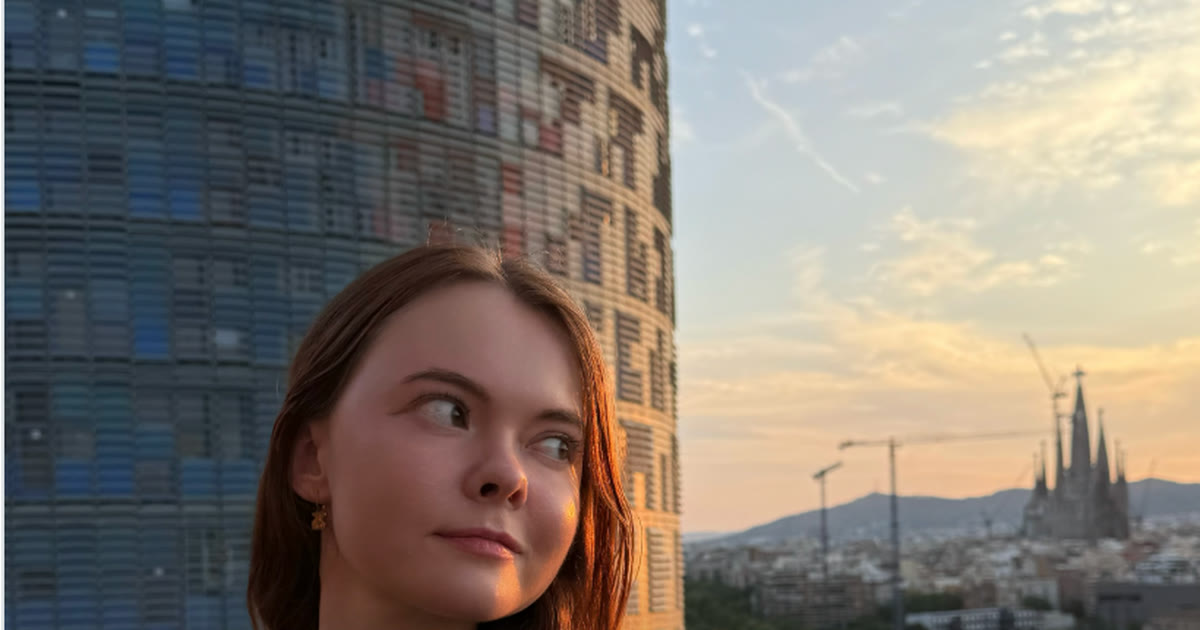
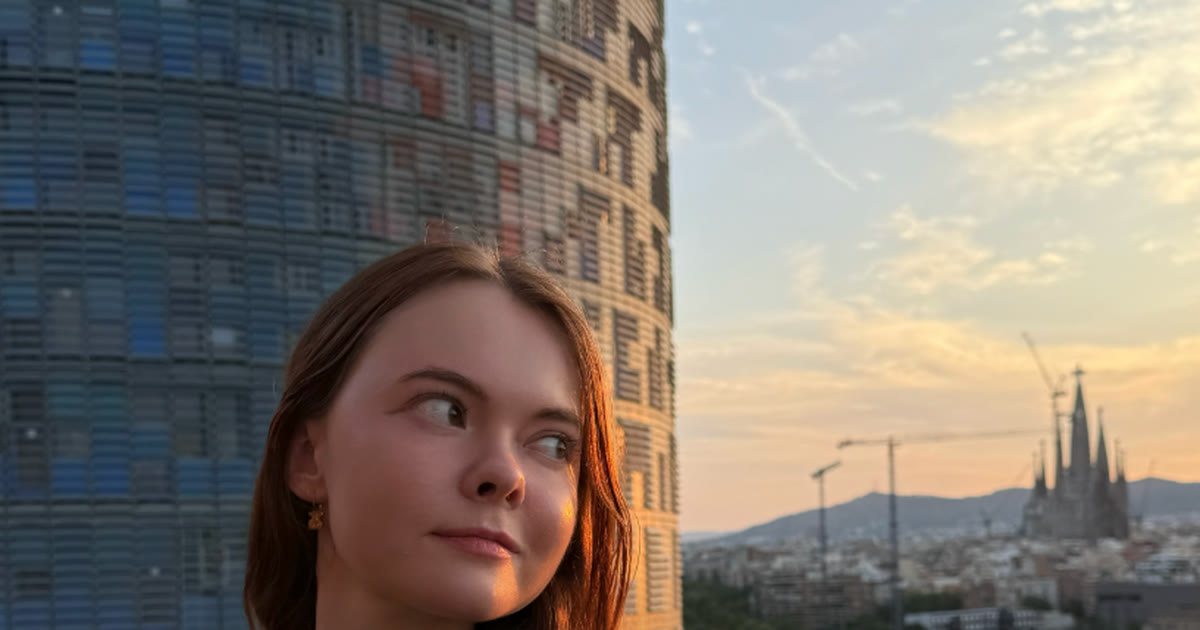
fix: review fixes (first screen, copy, sources, clean photo crops, back links)

diff --git a/index.html b/index.html
@@ -23,7 +23,7 @@
 
   <header class="profile">
     <div class="wrap">
-      <img class="profile__photo" src="/img/uliana-portrait.webp" width="480" height="580" alt="Ульяна Вьен">
+      <img class="profile__photo" src="/img/uliana-avatar.webp" width="350" height="350" alt="Ульяна Вьен">
       <h1 class="profile__name">Ульяна Вьен</h1>
       <p class="profile__line">Языки, UGC и жизнь в Барселоне</p>
       <p class="profile__bio">Говорю на шести языках, преподаю английский и испанский и снимаю <span class="nowrap">UGC-видео</span> для брендов Европы.</p>
@@ -38,20 +38,19 @@
     </div>
   </header>
 
-  <nav class="doors" aria-label="Чем могу помочь">
+  <nav class="doors" id="doors" aria-label="Чем могу помочь">
     <div class="wrap">
-      <p class="doors__title">С чем тебе помочь?</p>
       <ul class="doors__list">
         <li><a class="door door--main" href="#gaid">
-          <span class="door__text"><span class="door__name">Гайд: учу язык сам с нейросетями</span><span class="door__sub">Новый продукт, старт продаж в октябре</span></span>
+          <span class="door__text"><span class="door__name">Гайд: учим язык с нейросетями</span><span class="door__sub">Новый продукт, старт продаж в октябре</span></span>
           <svg class="door__arrow" viewBox="0 0 24 24" aria-hidden="true"><path d="M12 5v13M6.5 13 12 18.5 17.5 13"/></svg>
         </a></li>
         <li><a class="door" href="#ugc">
-          <span class="door__text"><span class="door__name">Консультация по UGC</span><span class="door__sub">Как начать работать с брендами в Европе</span></span>
+          <span class="door__text"><span class="door__name">Консультация по UGC</span><span class="door__sub">Как работать с брендами в Европе</span></span>
           <svg class="door__arrow" viewBox="0 0 24 24" aria-hidden="true"><path d="M12 5v13M6.5 13 12 18.5 17.5 13"/></svg>
         </a></li>
         <li><a class="door" href="#uroki">
-          <span class="door__text"><span class="door__name">Занятия английским и испанским</span><span class="door__sub">С преподавателем-полиглотом</span></span>
+          <span class="door__text"><span class="door__name">Английский и испанский</span><span class="door__sub">Занятия с преподавателем-полиглотом</span></span>
           <svg class="door__arrow" viewBox="0 0 24 24" aria-hidden="true"><path d="M12 5v13M6.5 13 12 18.5 17.5 13"/></svg>
         </a></li>
         <li><a class="door" href="#reklama">
@@ -69,7 +68,7 @@
         <div class="about__text">
           <h2 id="about-title">Привет, я Ульяна</h2>
           <p>В 2022 году мы уехали из России: сначала Армения, потом Турция, а когда собрали документы, перебрались в Испанию. Сейчас живу в Барселоне.</p>
-          <p>У меня две большие страсти: иностранные языки и съёмка видео. Говорю на шести языках, преподаю английский и испанский. Именно в Испании я начала сотрудничать с зарубежными брендами и стала <span class="nowrap">UGC-креатором</span>.</p>
+          <p>У меня две большие страсти: иностранные языки и съёмка видео. В эмиграции я стала думать, как их объединить, и завела второй блог, на иностранную аудиторию. Именно в Европе я начала сотрудничать с зарубежными брендами и стала <span class="nowrap">UGC-креатором</span>.</p>
           <p>В блоге рассказываю, как устроена жизнь в Испании, как учить языки и как зарабатывать на контенте.</p>
           <a class="text-link" href="https://www.instagram.com/ulianavien/" target="_blank" rel="noopener">Больше в Instagram</a>
         </div>
@@ -129,6 +128,7 @@
           <button class="button" type="submit">Сообщить мне о старте</button>
           <p class="privacy">Заявку увидит только Ульяна, контакт нужен, чтобы тебе ответить.</p>
         </form>
+        <a class="back-link" href="#doors">Вернуться к выбору</a>
       </div>
     </section>
 
@@ -176,13 +176,14 @@
           <button class="button" type="submit">Записаться на консультацию</button>
           <p class="privacy">Заявку увидит только Ульяна, контакт нужен, чтобы тебе ответить.</p>
         </form>
+        <a class="back-link" href="#doors">Вернуться к выбору</a>
       </div>
     </section>
 
     <section class="offer offer--tint" id="uroki" aria-labelledby="uroki-title">
       <div class="wrap">
         <h2 id="uroki-title">Занятия английским и испанским</h2>
-        <p class="lead">Говорю на шести языках и преподаю английский и испанский больше восьми лет. Подойдёт, если готовишься к переезду или уже живёшь за границей и язык нужен для жизни.</p>
+        <p class="lead">Английский и испанский с преподавателем, у которого больше восьми лет опыта. Подойдёт, если готовишься к переезду или уже живёшь за границей и язык нужен для жизни.</p>
 
         <form class="order" name="lessons" method="POST" action="/spasibo/" data-netlify="true" netlify-honeypot="company-site" data-success="Заявка у меня. Напишу тебе, подберём время и формат.">
           <input type="hidden" name="form-name" value="lessons">
@@ -218,6 +219,7 @@
           <button class="button" type="submit">Записаться на занятия</button>
           <p class="privacy">Заявку увидит только Ульяна, контакт нужен, чтобы тебе ответить.</p>
         </form>
+        <a class="back-link" href="#doors">Вернуться к выбору</a>
       </div>
     </section>
 
@@ -230,7 +232,7 @@
           <li>Сторис, рилс и посты в моём блоге.</li>
           <li><span class="nowrap">UGC-видео</span> для вашего аккаунта, без публикации у меня.</li>
         </ul>
-        <p class="note" lang="es">¿Marca local? Escríbeme en español o en inglés.</p>
+        <p class="note" lang="es">¿Marca local? Escríbeme por <a href="https://ig.me/m/ulianavien" target="_blank" rel="noopener">Instagram Direct</a> en español o en inglés.</p>
 
         <form class="order" name="collab" method="POST" action="/spasibo/" data-netlify="true" netlify-honeypot="company-site" data-success="Запрос у меня. Отвечу на почту, которую вы указали.">
           <input type="hidden" name="form-name" value="collab">
@@ -278,6 +280,7 @@
           <button class="button" type="submit">Отправить запрос</button>
           <p class="privacy">Запрос увидит только Ульяна, почта нужна, чтобы вам ответить.</p>
         </form>
+        <a class="back-link" href="#doors">Вернуться к выбору</a>
       </div>
     </section>
   </main>

diff --git a/styles.css b/styles.css
@@ -133,18 +133,17 @@ p {
 
 /* Profile */
 .profile {
-  padding-top: 24px;
+  padding-top: 20px;
   padding-bottom: 4px;
   text-align: center;
 }
 
 .profile__photo {
-  width: 92px;
-  height: 92px;
+  width: 112px;
+  height: 112px;
   margin: 0 auto 12px;
   border-radius: 50%;
   object-fit: cover;
-  object-position: 50% 18%;
 }
 
 .profile__name {
@@ -209,16 +208,9 @@ p {
 
 /* Doors */
 .doors {
-  padding-top: 22px;
+  padding-top: 18px;
   padding-bottom: 48px;
-}
-
-.doors__title {
-  margin-bottom: 10px;
-  font-size: 15px;
-  font-weight: 600;
-  text-align: center;
-  color: var(--ink-2);
+  scroll-margin-top: 12px;
 }
 
 .doors__list {
@@ -405,6 +397,15 @@ p {
   margin-top: 18px;
   font-size: 16px;
   color: var(--ink-2);
+}
+
+.back-link {
+  display: inline-flex;
+  align-items: center;
+  min-height: 44px;
+  margin-top: 16px;
+  font-size: 15px;
+  font-weight: 600;
 }
 
 /* Product tiers: one ladder, each step adds to the previous */
